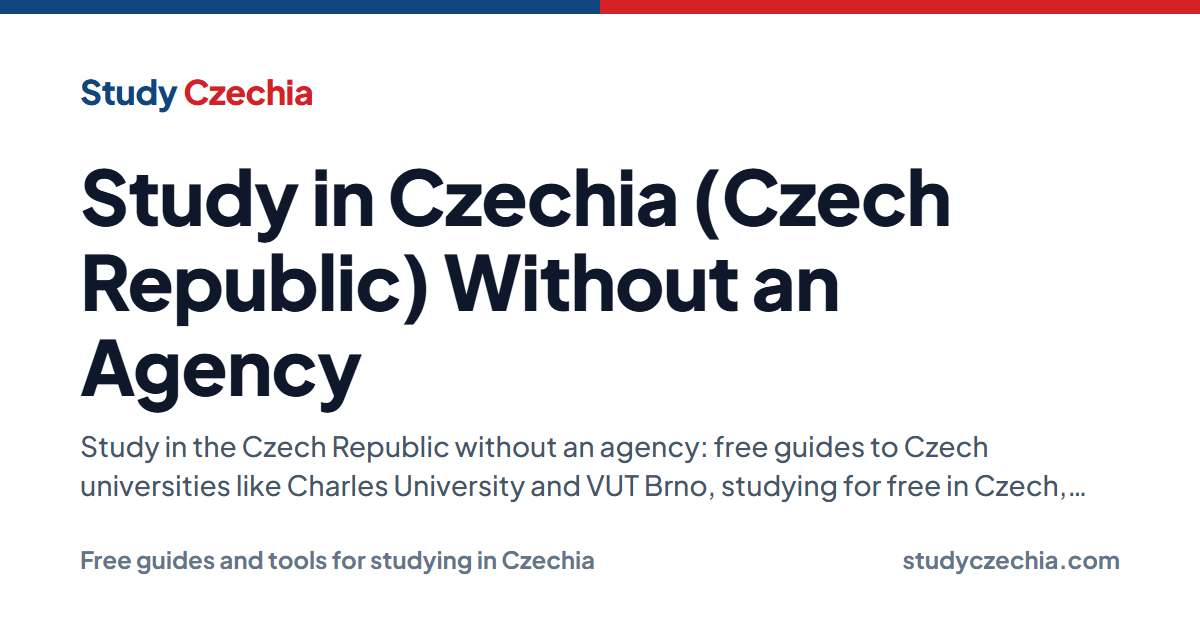
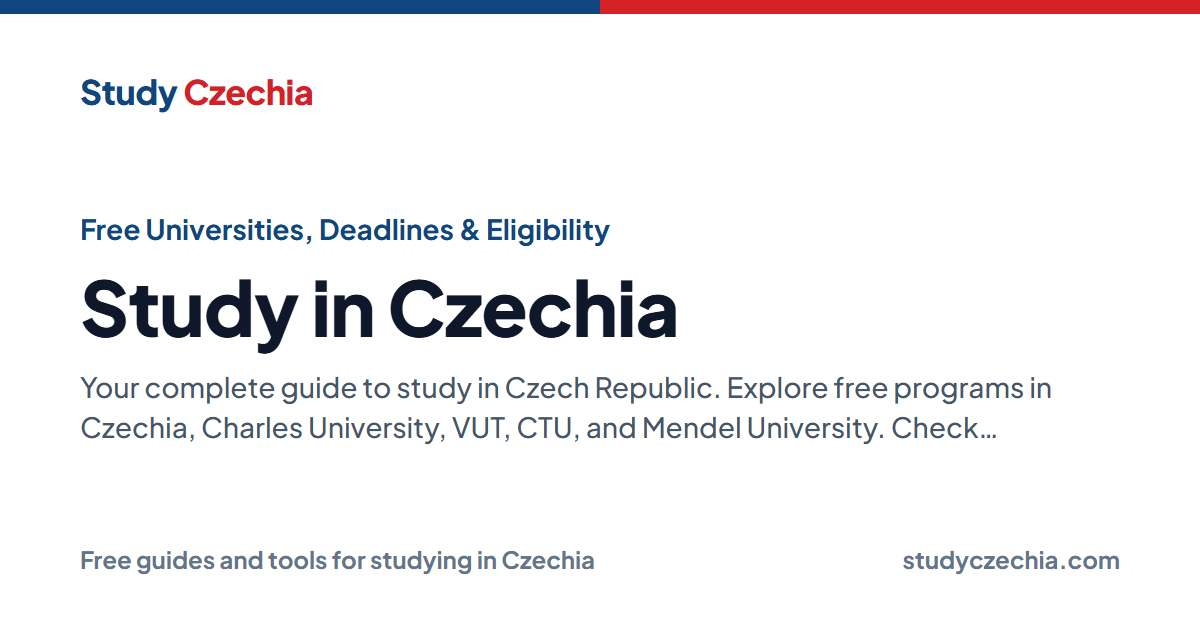
fix: correct deadline/entrance exam data and implement comprehensive bilingual SEO strategy
Follow-up to #79-#81 with the owner's exact wording and keywords:
- Programmes without their own date now say "End of February (General
  Deadline)" / "نهاية فبراير (الموعد العام)" on the tracker, programme
  pages, compare and the universities list (badge: "General deadline").
- Home titles/descriptions in EN and AR as specified; the Arabic home
  title no longer gets a "Study Czechia:" prefix.
- Deadline tracker and university matcher titles/descriptions carry the
  English and Arabic search terms (study in CZ, Czech universities, Czech
  language/preparatory/foundation year, جامعات التشيك, السفر للتشيك,
  الدراسة بالمجان في أوروبا ...).
- New FAQ: "How does Study Czechia compare to agencies like Top Edu or
  MSM Academy?" Neutral, states independence, no claims about them.
  Filed under University & admission, not Scams.

Changed region(s): [[0.0617, 0.2714, 0.8942, 0.8143]]

diff --git a/src/app/deadlines/DeadlinesClient.tsx b/src/app/deadlines/DeadlinesClient.tsx
@@ -33,7 +33,7 @@ import Image from "next/image";
 const labels = {
   en: {
     title: "Deadline Tracker",
-    subtitle: "Track application deadlines for English-taught programmes at Czech universities. Where a university hasn't published its own date yet, we show the usual Czech deadline: the end of February.",
+    subtitle: "Track application deadlines for English-taught programmes at Czech universities. Where a university hasn't published its own date yet, we show the general Czech deadline: the end of February.",
     filters: "Filters",
     clearFilters: "Clear filters",
     degree: "Degree",
@@ -55,11 +55,11 @@ const labels = {
     statusNotVerified: "Not yet verified",
     statusPassed: "Passed",
     statusRolling: "Rolling admissions",
-    statusNotPublished: "Usual deadline",
+    statusNotPublished: "General deadline",
     endOfFebruary: "End of February",
     noResults: "No programmes match your filters.",
     noDeadlinesYet: "We're building our deadline database from official university sources. No deadlines have been verified yet. Check back soon, or visit each university's admissions page directly.",
-    deadlineNotice: "Most Czech universities close applications at the end of February. Dates marked \"Usual deadline\" are not yet confirmed by the university, so check the official page before you apply. Every programme has an entrance exam.",
+    deadlineNotice: "Most Czech universities close applications at the end of February. Dates marked \"General deadline\" are not yet confirmed by the university, so check the official page before you apply. Every programme has an entrance exam.",
     checkOfficialPage: "Check official page",
     eligibilityCta: "Check my eligibility",
     browseUnis: "Browse universities",
@@ -71,7 +71,7 @@ const labels = {
   },
   ar: {
     title: "متتبع المواعيد",
-    subtitle: "تابع مواعيد التقديم للبرامج بالإنجليزي في جامعات التشيك. لو الجامعة لسه منزلتش ميعادها، بنعرضلك الميعاد المعتاد في التشيك: آخر فبراير.",
+    subtitle: "تابع مواعيد التقديم للبرامج بالإنجليزي في جامعات التشيك. لو الجامعة لسه منزلتش ميعادها، بنعرضلك الموعد العام في التشيك: نهاية فبراير.",
     filters: "فلتر",
     clearFilters: "امسح الفلتر",
     degree: "الدرجة",
@@ -93,11 +93,11 @@ const labels = {
     statusNotVerified: "لسه ماتأكدناش",
     statusPassed: "فات",
     statusRolling: "قبول مفتوح",
-    statusNotPublished: "الميعاد المعتاد",
-    endOfFebruary: "آخر فبراير",
+    statusNotPublished: "الموعد العام",
+    endOfFebruary: "نهاية فبراير",
     noResults: "مفيش برامج مطابقة للفلتر ده.",
     noDeadlinesYet: "بنبني قاعدة بيانات المواعيد من مصادر الجامعات الرسمية. لسه ماتأكدنا من أي مواعيد. ارجع قريب، أو روح لصفحة القبول بتاعة كل جامعة.",
-    deadlineNotice: "أغلب جامعات التشيك بتقفل التقديم آخر فبراير. المواعيد المكتوب عليها \"الميعاد المعتاد\" الجامعة لسه ما أكدتهاش، فاتأكد من الصفحة الرسمية قبل ما تقدم. كل البرامج فيها امتحان قبول.",
+    deadlineNotice: "أغلب جامعات التشيك بتقفل التقديم نهاية فبراير. المواعيد المكتوب عليها \"الموعد العام\" الجامعة لسه ما أكدتهاش، فاتأكد من الصفحة الرسمية قبل ما تقدم. كل البرامج فيها امتحان قبول.",
     checkOfficialPage: "شوف الصفحة الرسمية",
     eligibilityCta: "شوف لو تقدر تقدم",
     browseUnis: "شوف الجامعات",
@@ -186,7 +186,7 @@ function ProgrammeDeadlineCard({ prog, uni, status, locale }: {
   locale: "en" | "ar";
 }) {
   const l = labels[locale] || labels.en;
-  // Programmes without their own date count down to the usual end-of-February deadline.
+  // Programmes without their own date count down to the general end-of-February deadline.
   const deadline = status === "verified" ? prog.applicationDeadline : status === "not-published" ? usualDeadline() : undefined;
   const daysLeft = deadline
     // eslint-disable-next-line react-hooks/purity -- days left is meant to reflect the current date

diff --git a/src/i18n/ar-metadata.ts b/src/i18n/ar-metadata.ts
@@ -5,9 +5,9 @@ const SITE_URL = process.env.NEXT_PUBLIC_SITE_URL || "https://studyczechia.com";
 /** Arabic titles and descriptions for the static pages (Modern Standard Arabic for search). */
 export const AR_PAGE_META: Record<string, { title: string; description: string }> = {
   "/": {
-    title: "الدراسة في التشيك (جمهورية التشيك) بدون وكالة",
+    title: "الدراسة في التشيك | جامعات مجانية، مواعيد التقديم، وشروط القبول",
     description:
-      "دليلك للدراسة في جمهورية التشيك بدون وكالة: جامعات التشيك مثل جامعة تشارلز وVUT، والدراسة بالمجان باللغة التشيكية، والمصاريف والمواعيد والفيزا، من طالب يعيش في التشيك. مراجعة الأوراق والتحضير لمقابلة السفارة والمساعدة في التقديم.",
+      "دليلك الشامل للدراسة في جمهورية التشيك. اعرف شروط الدراسة في تشيكيا، الجامعات المجانية، جامعة تشارلز، VUT، و CTU. مواعيد التقديم والتكاليف.",
   },
   "/about/": {
     title: "من نحن",
@@ -56,8 +56,8 @@ export const AR_PAGE_META: Record<string, { title: string; description: string }
   },
   "/courses/learn/": { title: "لوحة الكورس", description: "دروس كورس أول 90 يوم في التشيك." },
   "/deadlines/": {
-    title: "مواعيد التقديم للجامعات التشيكية",
-    description: "تابع مواعيد التقديم للبرامج الإنجليزية في الجامعات التشيكية.",
+    title: "مواعيد التقديم في جامعات التشيك | الدراسة في التشيك",
+    description: "مواعيد التقديم في جامعات التشيك للدراسة في تشيكيا، وأغلبها نهاية فبراير. البرامج بالإنجليزية، والدراسة بالمجان باللغة التشيكية في الجامعات الحكومية، وخطوات السفر للتشيك. الدراسة بالمجان في أوروبا تبدأ بمعرفة المواعيد.",
   },
   "/eligibility/": {
     title: "هل يمكنني الدراسة في التشيك؟ اختبار الأهلية",
@@ -106,8 +106,8 @@ export const AR_PAGE_META: Record<string, { title: string; description: string }
     description: "جامعات التشيك الحكومية والخاصة، مثل جامعة تشارلز وVUT وČVUT: البرامج بالإنجليزي، والمصاريف من مواقع الجامعات الرسمية، ومواعيد التقديم.",
   },
   "/university-matcher/": {
-    title: "اختر جامعتك في التشيك",
-    description: "أجب عن أسئلة قليلة واحصل على برامج تناسب تخصصك وميزانيتك ومدينتك.",
+    title: "اختر جامعتك في التشيك | جامعات التشيك المجانية والإنجليزية",
+    description: "أجب عن أسئلة قليلة لتجد برنامجك في جامعات التشيك حسب تخصصك وميزانيتك ومدينتك: برامج بالإنجليزية، أو برامج باللغة التشيكية مجانية في الجامعات الحكومية. خطوتك الأولى للدراسة في تشيكيا والسفر للتشيك والدراسة بالمجان في أوروبا.",
   },
   "/verify/": { title: "التحقق من الشهادة", description: "تحقق من شهادة إتمام كورس Study Czechia." },
   "/why-czechia/": {
@@ -197,7 +197,7 @@ export function arabicMetadata(
   const isHome = path === "/";
   return {
     ...en,
-    title: isHome ? { absolute: `Study Czechia: ${title}` } : title,
+    title: isHome ? { absolute: String(title) } : title,
     description,
     alternates: { canonical: arPath },
     openGraph: {
@@ -205,7 +205,7 @@ export function arabicMetadata(
       type: "website",
       locale: "ar_AR",
       url: arPath,
-      ...(typeof title === "string" ? { title: isHome ? `Study Czechia: ${title}` : title } : {}),
+      ...(typeof title === "string" ? { title } : {}),
       ...(description ? { description } : {}),
       images: [{ url: `${SITE_URL}/og-image.jpg`, width: 1200, height: 630, alt: "Study Czechia" }],
     },

diff --git a/src/app/programmes/[slug]/ProgrammeDetailClient.tsx b/src/app/programmes/[slug]/ProgrammeDetailClient.tsx
@@ -37,7 +37,7 @@ const COPY = {
     deadlineNotVerified: "Deadline not verified",
     deadlinePassed: "Deadline passed",
     rolling: "Rolling admissions",
-    deadlineNotPublished: "Usual deadline: end of February",
+    deadlineNotPublished: "End of February (General Deadline)",
     czechia: "Czech Republic",
     public: "Public",
     private: "Private",
@@ -51,7 +51,7 @@ const COPY = {
     perYear: "/ year",
     applicationFee: "Application fee",
     applicationDeadline: "Application deadline",
-    notPublished: "Usually end of February (the university hasn't confirmed its date yet)",
+    notPublished: "End of February (General Deadline). The university hasn't confirmed its own date yet.",
     applicationsOpen: "Applications open",
     entranceExam: "Entrance exam",
     yes: "Yes",
@@ -81,7 +81,7 @@ const COPY = {
     deadlineNotVerified: "آخر موعد غير مؤكَّد",
     deadlinePassed: "انتهى موعد التقديم",
     rolling: "التقديم مفتوح طوال العام",
-    deadlineNotPublished: "الموعد المعتاد: نهاية فبراير",
+    deadlineNotPublished: "نهاية فبراير (الموعد العام)",
     czechia: "التشيك",
     public: "حكومية",
     private: "خاصة",
@@ -95,7 +95,7 @@ const COPY = {
     perYear: "في السنة",
     applicationFee: "رسوم التقديم",
     applicationDeadline: "آخر موعد للتقديم",
-    notPublished: "عادةً نهاية فبراير (لم تؤكد الجامعة موعدها بعد)",
+    notPublished: "نهاية فبراير (الموعد العام). لم تؤكد الجامعة موعدها بعد.",
     applicationsOpen: "بداية التقديم",
     entranceExam: "امتحان القبول",
     yes: "نعم",

diff --git a/src/data/qa.ts b/src/data/qa.ts
@@ -282,6 +282,20 @@ export const qaEntries: QaEntry[] = [
     },
   },
 
+  // Agencies. Kept under "university", not "scams": listing them there would imply they are scams.
+  {
+    id: "university-agencies-top-edu-msm",
+    category: "university",
+    q: {
+      en: "How does Study Czechia compare to agencies like Top Edu or MSM Academy?",
+      ar: "Study Czechia بيختلف إزاي عن وكالات زي توب اديو (Top Edu) أو MSM Academy؟",
+    },
+    a: {
+      en: "Study Czechia is independent and has no connection to Top Edu, MSM Academy or any other agency. The guides, deadline tracker and tools on this site are free to use; personal help (document review, interview preparation, application support) is optional and its prices are listed on the site. We make no claims about other agencies' services. Whichever one you consider, ask them the eight questions on our Questions to Ask page and compare the answers in writing.",
+      ar: "Study Czechia مستقل وملوش أي علاقة بتوب اديو (Top Edu) أو MSM Academy أو أي وكالة تانية. الأدلة ومتتبع المواعيد والأدوات اللي على الموقع مجانية، والمساعدة الشخصية (مراجعة الأوراق، التحضير للمقابلة، المساعدة في التقديم) اختيارية وأسعارها مكتوبة على الموقع. إحنا مش بنقول أي حاجة عن خدمات الوكالات التانية. أي وكالة بتفكر فيها، اسألها الـ 8 أسئلة اللي في صفحة «أسئلة قبل ما تدفع» وقارن الإجابات مكتوبة.",
+    },
+  },
+
   // Housing
   {
     id: "housing-priority-system",

diff --git a/src/app/universities/UniversityListClient.tsx b/src/app/universities/UniversityListClient.tsx
@@ -112,7 +112,7 @@ const deadlineStatusLabel: Record<DeadlineStatus, { en: string; ar: string }> = 
   "not-verified": { en: "Not yet verified", ar: "لم يتم التحقق" },
   passed: { en: "Deadline passed", ar: "الموعد انتهى" },
   rolling: { en: "Rolling admissions", ar: "قبول مستمر" },
-  "not-published": { en: "Usually end of February", ar: "عادةً آخر فبراير" },
+  "not-published": { en: "End of February (General Deadline)", ar: "نهاية فبراير (الموعد العام)" },
 };
 
 const deadlineStatusColor: Record<DeadlineStatus, string> = {
@@ -631,7 +631,7 @@ export default function UniversityListClient({ mapCities }: { mapCities?: MapCit
                   options={[
                     { value: "verified", label: locale === "ar" ? "متحقق" : "Verified" },
                     { value: "rolling", label: locale === "ar" ? "قبول مستمر" : "Rolling" },
-                    { value: "not-published", label: locale === "ar" ? "عادةً آخر فبراير" : "Usually end of February" },
+                    { value: "not-published", label: locale === "ar" ? "نهاية فبراير (الموعد العام)" : "End of February (General Deadline)" },
                   ]}
                 />
               </>

diff --git a/src/app/layout.tsx b/src/app/layout.tsx
@@ -49,11 +49,11 @@ const SITE_URL = process.env.NEXT_PUBLIC_SITE_URL || "https://studyczechia.com";
 
 export const metadata: Metadata = {
   title: {
-    default: "Study Czechia: Study in Czechia (Czech Republic) Without an Agency",
+    default: "Study in Czechia | Free Universities, Deadlines & Eligibility",
     template: "%s | Study Czechia",
   },
   description:
-    "Study in the Czech Republic without an agency: free guides to Czech universities like Charles University and VUT Brno, studying for free in Czech, fees, deadlines and visas, from a student who lives in Czechia. Help in Arabic.",
+    "Your complete guide to study in Czech Republic. Explore free programs in Czechia, Charles University, VUT, CTU, and Mendel University. Check deadlines, costs, and eligibility.",
   authors: [{ name: "Study Czechia" }],
   openGraph: {
     siteName: "Study Czechia",

diff --git a/src/app/deadlines/page.tsx b/src/app/deadlines/page.tsx
@@ -2,9 +2,9 @@ import DeadlinesClient from "./DeadlinesClient";
 import type { Metadata } from "next";
 
 export const metadata: Metadata = {
-  title: "Deadline Tracker: Czech University Application Deadlines",
+  title: "Czech Universities Application Deadlines | Study in CZ Deadline Tracker",
   description:
-    "Track verified application deadlines for English-taught programmes at Czech universities. Filter by degree, field, city, and tuition. Only official sources.",
+    "Application deadlines for Czech universities, most at the end of February. Track English-taught programmes, and plan a Czech language year (preparatory or foundation year) if you want to study in Czech for free. Study in Europe without missing a date.",
   alternates: { canonical: "/deadlines" },
 };
 

diff --git a/src/app/university-matcher/layout.tsx b/src/app/university-matcher/layout.tsx
@@ -1,8 +1,8 @@
 import type { Metadata } from "next";
 
 export const metadata: Metadata = {
-  title: "Programme Matcher: Find Your Czech University Programme",
-  description: "Answer a few questions to find the right English-taught programme at a Czech university. Matched by field, budget, city, and language.",
+  title: "University Matcher: Find Your Programme at Czech Universities | Study in CZ",
+  description: "Answer a few questions to find your programme at Czech universities, matched by field, budget, city and language: English-taught, or Czech-taught (free at public universities, usually after a Czech language preparatory or foundation year). A first step to study in Europe.",
   alternates: { canonical: "/university-matcher" },
 };
 

diff --git a/src/app/programmes/compare/CompareClient.tsx b/src/app/programmes/compare/CompareClient.tsx
@@ -65,7 +65,7 @@ const COPY = {
     years: (n: number) => `${n} year${n > 1 ? "s" : ""}`,
     rolling: "Rolling",
     passed: (d: string) => `${d} (passed)`,
-    notPublished: "Usually end of February",
+    notPublished: "End of February (General Deadline)",
   },
   ar: {
     title: "قارن بين البرامج",
@@ -108,7 +108,7 @@ const COPY = {
     years: (n: number) => (n === 1 ? "سنة واحدة" : n === 2 ? "سنتان" : `${n} سنوات`),
     rolling: "مفتوح طوال العام",
     passed: (d: string) => `${d} (انتهى)`,
-    notPublished: "عادةً نهاية فبراير",
+    notPublished: "نهاية فبراير (الموعد العام)",
   },
 };
 
